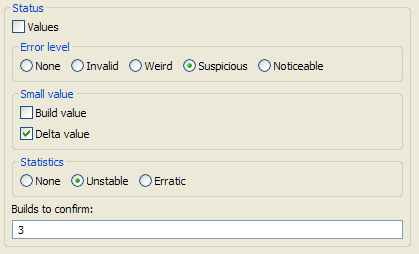
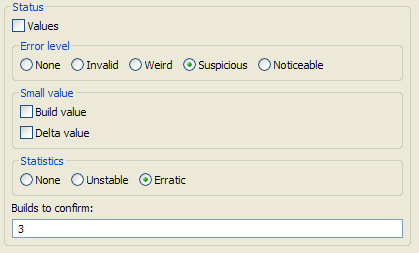
HEAD - Doc update

diff --git a/bundles/org.eclipse.test.performance.ui/html/preferences.html b/bundles/org.eclipse.test.performance.ui/html/preferences.html
@@ -14,14 +14,14 @@ This must be done carefully otherwise, either no data could be read by the tool
 and/or generatead results could be puzzled.
 </p><p>
 
-<h3>Eclipse version</h3>
+<h3><a name="eclipse_version">Eclipse version</h3>
 <p><img src="images/preferences-eclipse-versions.png" alt="Preferences Eclipse versions"/></p>
 <p>
 The Eclipse version on which the performance results belongs to. There are
 only two possible choice: the maintenance and the current versions.
 </p>
 
-<h3>Database</h3>
+<h3><a name="database">Database</h3>
 <p><img src="images/preferences-database.png" alt="Preferences Database"/></p>
 <p>
 By default the tool does not connect to any performance results database as common
@@ -34,12 +34,60 @@ Note that the folder for the local database must be the parent of the
 <code>perfDb3x</code> folder otherwise you'll get an error message.
 </p>
 
-<h3>Status</h3>
-<p><img src="images/preferences-milestones.png" alt="Preferences Milestones"/></p>
+<h3><a name="status">Status</h3>
+<p><img src="images/preferences-status.png" alt="Preferences Status"/></p>
 <p>
-TODO</p>
+The status preferences can be set to exclude some tests while written
+the status file (see <a href="components.html#writestatus">Write status</a>).
+</p><p>
+Flying over each check-box or radio buttons gives a short explanation of each
+preference value
+</p><p>
+Here are the detailed explanation of these status preferences:
+<ul>
+<li><b>Values</b>: Check-box to include the values of the failing tests in the
+status file. Note that is not recommended to do so when status want to be
+compared between builds</li>
+<li><b>Error level</b>: Level of the error from which the test result is
+excluded from the file:
+<ul>
+<li>None: the test is always included in the status file whatever the error
+level is</li>
+<li>Invalid: the test is not included when the error level is over 100%</li>
+<li>Weird: the test is not included when the error level is over 50%</li>
+<li>Suspicious: the test is not included when the error level is over 25%</li>
+<li>Noticeable: the test is not included when the error level is over 3%</li>
+</ul>
+</li>
+<li><b>Small value</b>: The test is not included when a small value is detected:
+<ul>
+<li>Build value: the test is not included when the value for this build test value
+is below than 100ms (<i>as the test duration is below the recommended minimum
+value it's not necessary to strongly survey it...</i>)</li>
+<li>Delta value: the test is not included when the value of the difference between
+the build and the baseline is below than 100ms (<i>as the regression is below
+what a normal user can detect, it may not be necessary to report it...</i>)</li>
+</ul>
+</li>
+<li><b>Statistics</b>: Level of deviation of test history since the first build
+from which the test result is not included in the status file:
+<ul>
+<li>None: the test is always included in the status file whatever the deviation
+is</li>
+<li>Unstable: the test is not included when the deviation is over 10%</li>
+<li>Erratic: the test is not included when the error level is over 20%</li>
+</ul>
+</li>
+<li><b>Builds to confirm</b>: The number of builds to confirm a regression.
+As tests may have <i>natural</i> variation, it's often necessary to have several
+builds to confirm that a regression really occurs. This preference allow to
+define how many consecutive builds must show a regression before including
+a test result in the status file...
+</li>
+</ul>
+</p>
 
-<h3>Milestones</h3>
+<h3><a name="milestones">Milestones</h3>
 <p><img src="images/preferences-milestones.png" alt="Preferences Milestones"/></p>
 <p>
 These are the list of the version milestones. Each milestone is a date string
@@ -48,16 +96,19 @@ date must be added to this preference to let the tool to identify it in the buil
 list and emphasize it...
 </p>
 
-<h3>Last build</h3>
+<h3><a name="lastbuild">Last build</h3>
 <p><img src="images/preferences-lastbuild.png" alt="Preferences Last build"/></p>
 <p>
-The last build on which verifications and/or generation want to be done.
+The last build on which verifications and/or generation want to be done. When
+not set (which is the default value) the last build of the database is taken
+into account.
+</p><p>
 All builds after the selected one are ignored by the tool likewise they would
 have no local data. Changing this value will trigger the initialization of
 the local data which will be read again.
 </p>
 
-<h2>Default dimension</h2>
+<h2><a name="defaultdim">Default dimension</h2>
 <p><img src="images/preferences-default-dim.png" alt="Preferences Default dimension"/></p>
 <p>
 This is the dimension used to compute delta and make the verification. Currently
@@ -68,7 +119,7 @@ described below, hence a new selected dimensions will always be automatically
 added to the list...</i>
 </p>
 
-<h2>Results dimensions</h2>
+<h2><a name="resultsdim">Results dimensions</h2>
 <p><img src="images/preferences-results-dim.png" alt="Preferences Results dimension"/></p>
 <p>
 These are dimensions displayed in the scenario data HTML pages. Currently there

diff --git a/bundles/org.eclipse.test.performance.ui/html/overview.html b/bundles/org.eclipse.test.performance.ui/html/overview.html
@@ -9,8 +9,8 @@
 <body>
 <h1>Overview</h1>
 The performance results tool provide an easy way to look at results collected
-while running performance tests on a build. It is accessible using the <b>Performance Results</b>
-perspective:
+while running performance tests on a build. It is accessible using the
+<b>Performance Results</b> perspective:
 <p><img src="images/perspective.png" alt="Performance Results perspective"/></p>
 <p>
 There are 4 views in this perspective:
@@ -26,12 +26,13 @@ see whole results for each machine in a single table</li>
 </ul>
 </p><p>
 The goal of this tool is both to look at performance results database numbers
-and to verify whether a build result may have scenario showing performance regression.
+and to verify whether a build result have scenarios showing performance regression.
 </p><p>
-The view to use to look at performance results number is the <a href="components.html">Components view</a>.
-In this results are displayed in a hierarchical tree which have a similar structure
-than the generated HTML pages (e.g.
-<a href="http://download.eclipse.org/eclipse/downloads/drops/R-3.5-200906111540/performance/performance.php">Eclipse 3.5.0</a>).
+The view to use to look at performance results number is the
+<a href="components.html">Components view</a>. In this view, results are
+displayed in a hierarchical tree which have a similar structure than
+the generated HTML pages (e.g.
+<a href="http://download.eclipse.org/eclipse/downloads/drops/R-3.6-201006080911/performance/performance.php">Eclipse 3.6.0</a>).
 The complete performance results information is provided on each element of the tree in the
 <a href="properties.html">Properties view</a>. This is typically useful when a scenario
 results looks weird to have the ability to verify that the numbers looks correct

diff --git a/bundles/org.eclipse.test.performance.ui/html/components.html b/bundles/org.eclipse.test.performance.ui/html/components.html
@@ -47,7 +47,8 @@ Several icons are displayed on tree element, here are their meaning.
 The red cross means that there's at least one scenario on one machine for
 the last build with a failure (i.e. a regression over 10%).
 </p><p>
-The warning icon means that some warnings occur for some results. The current possible warning are:
+The warning icon means that some warnings occur for some results.
+The current possible warning are:
 <ul>
 <li>error over the 3% threshold on test(s)</li>
 <li>unreliable test(s): the deviation through the test(s) history is over 20%</li>
@@ -88,5 +89,22 @@ As baselines results are not really useful for the survey, the filter is activat
 by default in this view. Currently the survey only concerns the fingerprints
 scenario, hence the corresponding filter is also activated by default.
 </p>
+
+<h2><a name="writestatus">Write status</h2>
+<p>
+From this view, it is also possible to write the status file for the last
+active build (see <a href="preferences.html#lastbuild">Last build</a>) by
+using the <b>Write status</b> item of the View menu:
+</p>
+<p><img src="images/write-status-menu.png" alt="Write status menu item"/></p>
+<p>
+The written status file will contain all scenarios which have failures,
+except those excluded by the status preferences set in the preferences page
+(see <a href="preferences.html#status">Status</a>)
+</p><p>
+Then it's easy to see the new regression occurring in a build when comparing
+to the previous build status file:
+</p>
+<p><img src="images/write-status-comparison.png" alt="Compare write status files"/></p>
 </body>
 </html>

diff --git a/bundles/org.eclipse.test.performance.ui/html/builds.html b/bundles/org.eclipse.test.performance.ui/html/builds.html
@@ -64,6 +64,24 @@ files than the one generated on eclipsebuildserv.
 eclipsebuildserv or fullmoon...</i>
 </p>
 
+<h2><a name="writecomparison">Write comparison</h2>
+<p>
+From this view, it is also possible to write the comparison between two 
+selected builds using the <b>Write comparison</b> item of the View menu:
+</p>
+<p><img src="images/write-comparison-menu.png" alt="Write comparison menu item"/></p>
+<p>
+The written HTML file will contain the Scenario Status Table as it would
+have been generated but comparing the two selected build instead of comparing
+a build vs a baseline.
+</p><p>
+This is helpful to see if a regression occurs after having made a change with 
+possible impact performance...
+</p>
+<p>Note that this comparison can also be shown in the
+<a href="builds-comparison.html">Builds Comparison view</a>...
+</p>
+
 <h2>Filters</h2>
 <p>
 There are several possible filters in this view.

diff --git a/bundles/org.eclipse.test.performance.ui/html/builds-comparison.html b/bundles/org.eclipse.test.performance.ui/html/builds-comparison.html
@@ -1,0 +1,31 @@
+<!DOCTYPE HTML PUBLIC "-//W3C//DTD HTML 4.0 Transitional//EN">
+
+<html>
+<head>
+	<meta http-equiv="Content-Type" content="text/html; charset=iso-8859-1">
+	<title>Builds Comparison view</title>
+</head>
+
+<body>
+<h1>Builds Comparison view</h1>
+<p>
+This view shows the scenarios status table of the difference between two builds
+selected in the <a href="builds.html">Builds view</a>.
+</p><p>
+The comparison between the two builds is shown for each component in a
+separated tab which contains a table made of all scenarios (lines) and all
+configuration (columns).<br>
+<i>Note that this format is similar than the one used to generate performance
+results HTML pages...</i>
+</p>
+
+<h2>Filters</h2>
+<p>
+
+<h3>Scenarios filter</h3>
+<ul>
+<li>Advanced scenarios: hide the scenarios which are not in the fingerprints</li>
+</ul>
+
+</body>
+</html>
